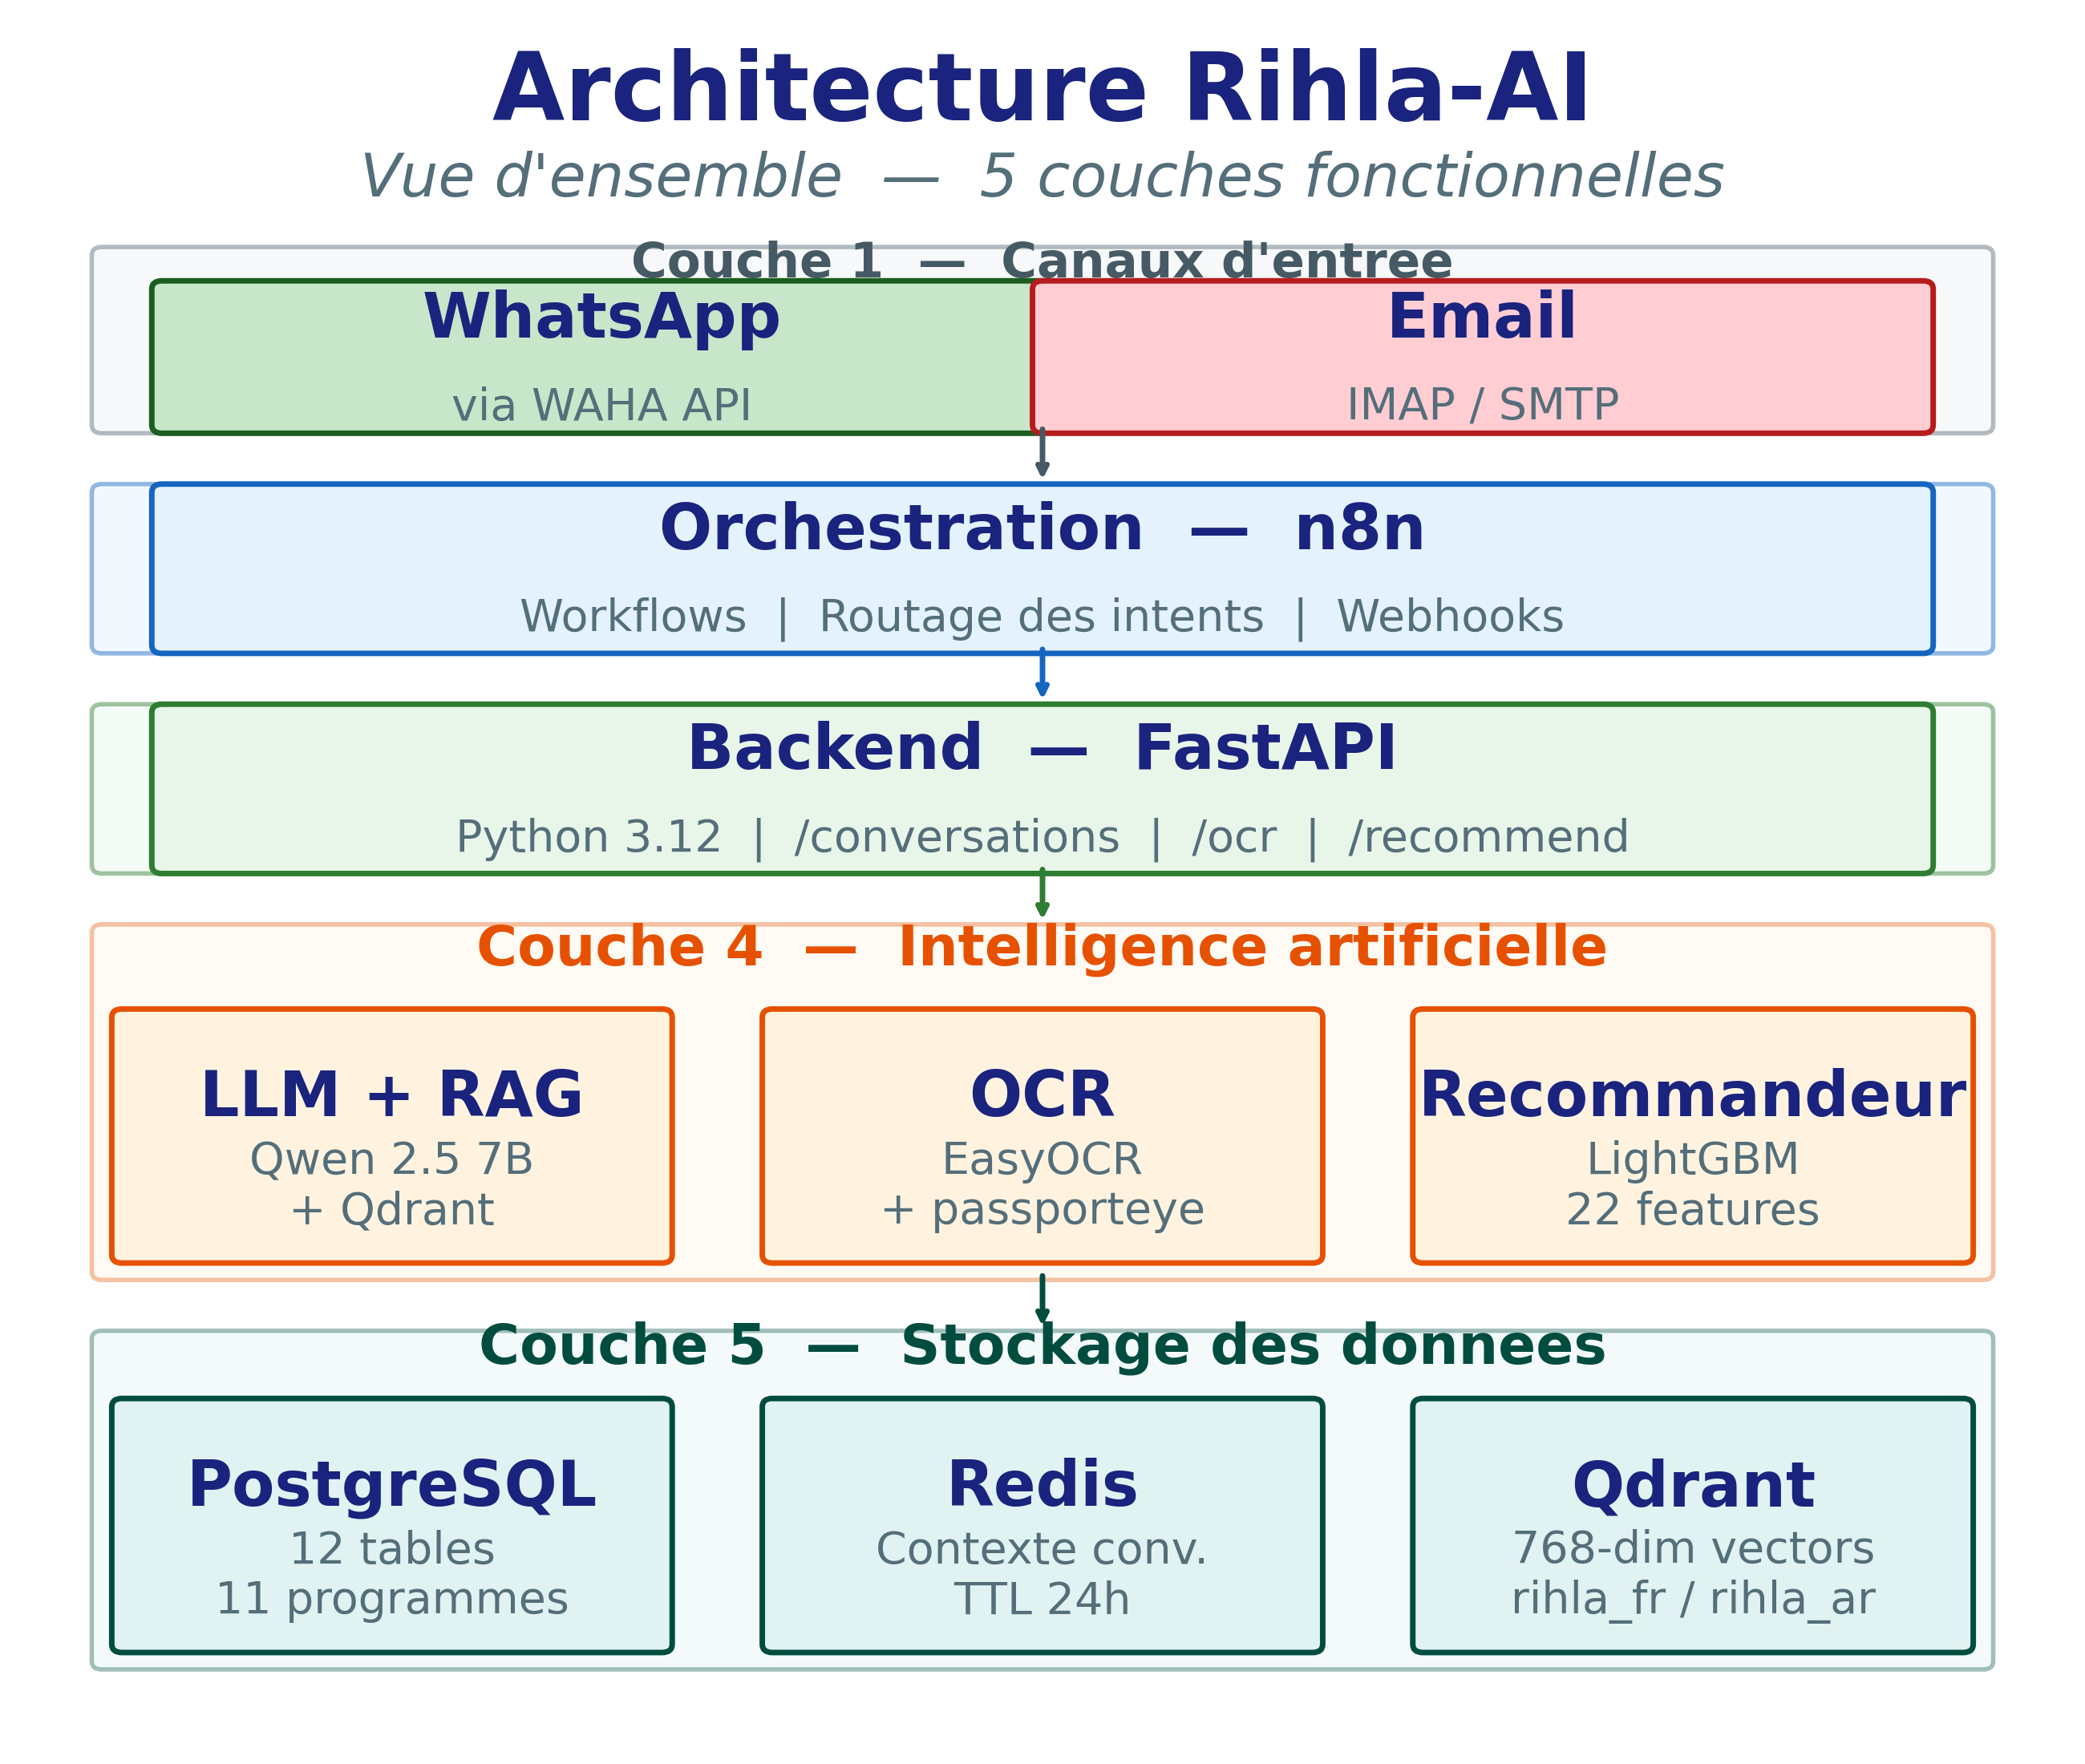
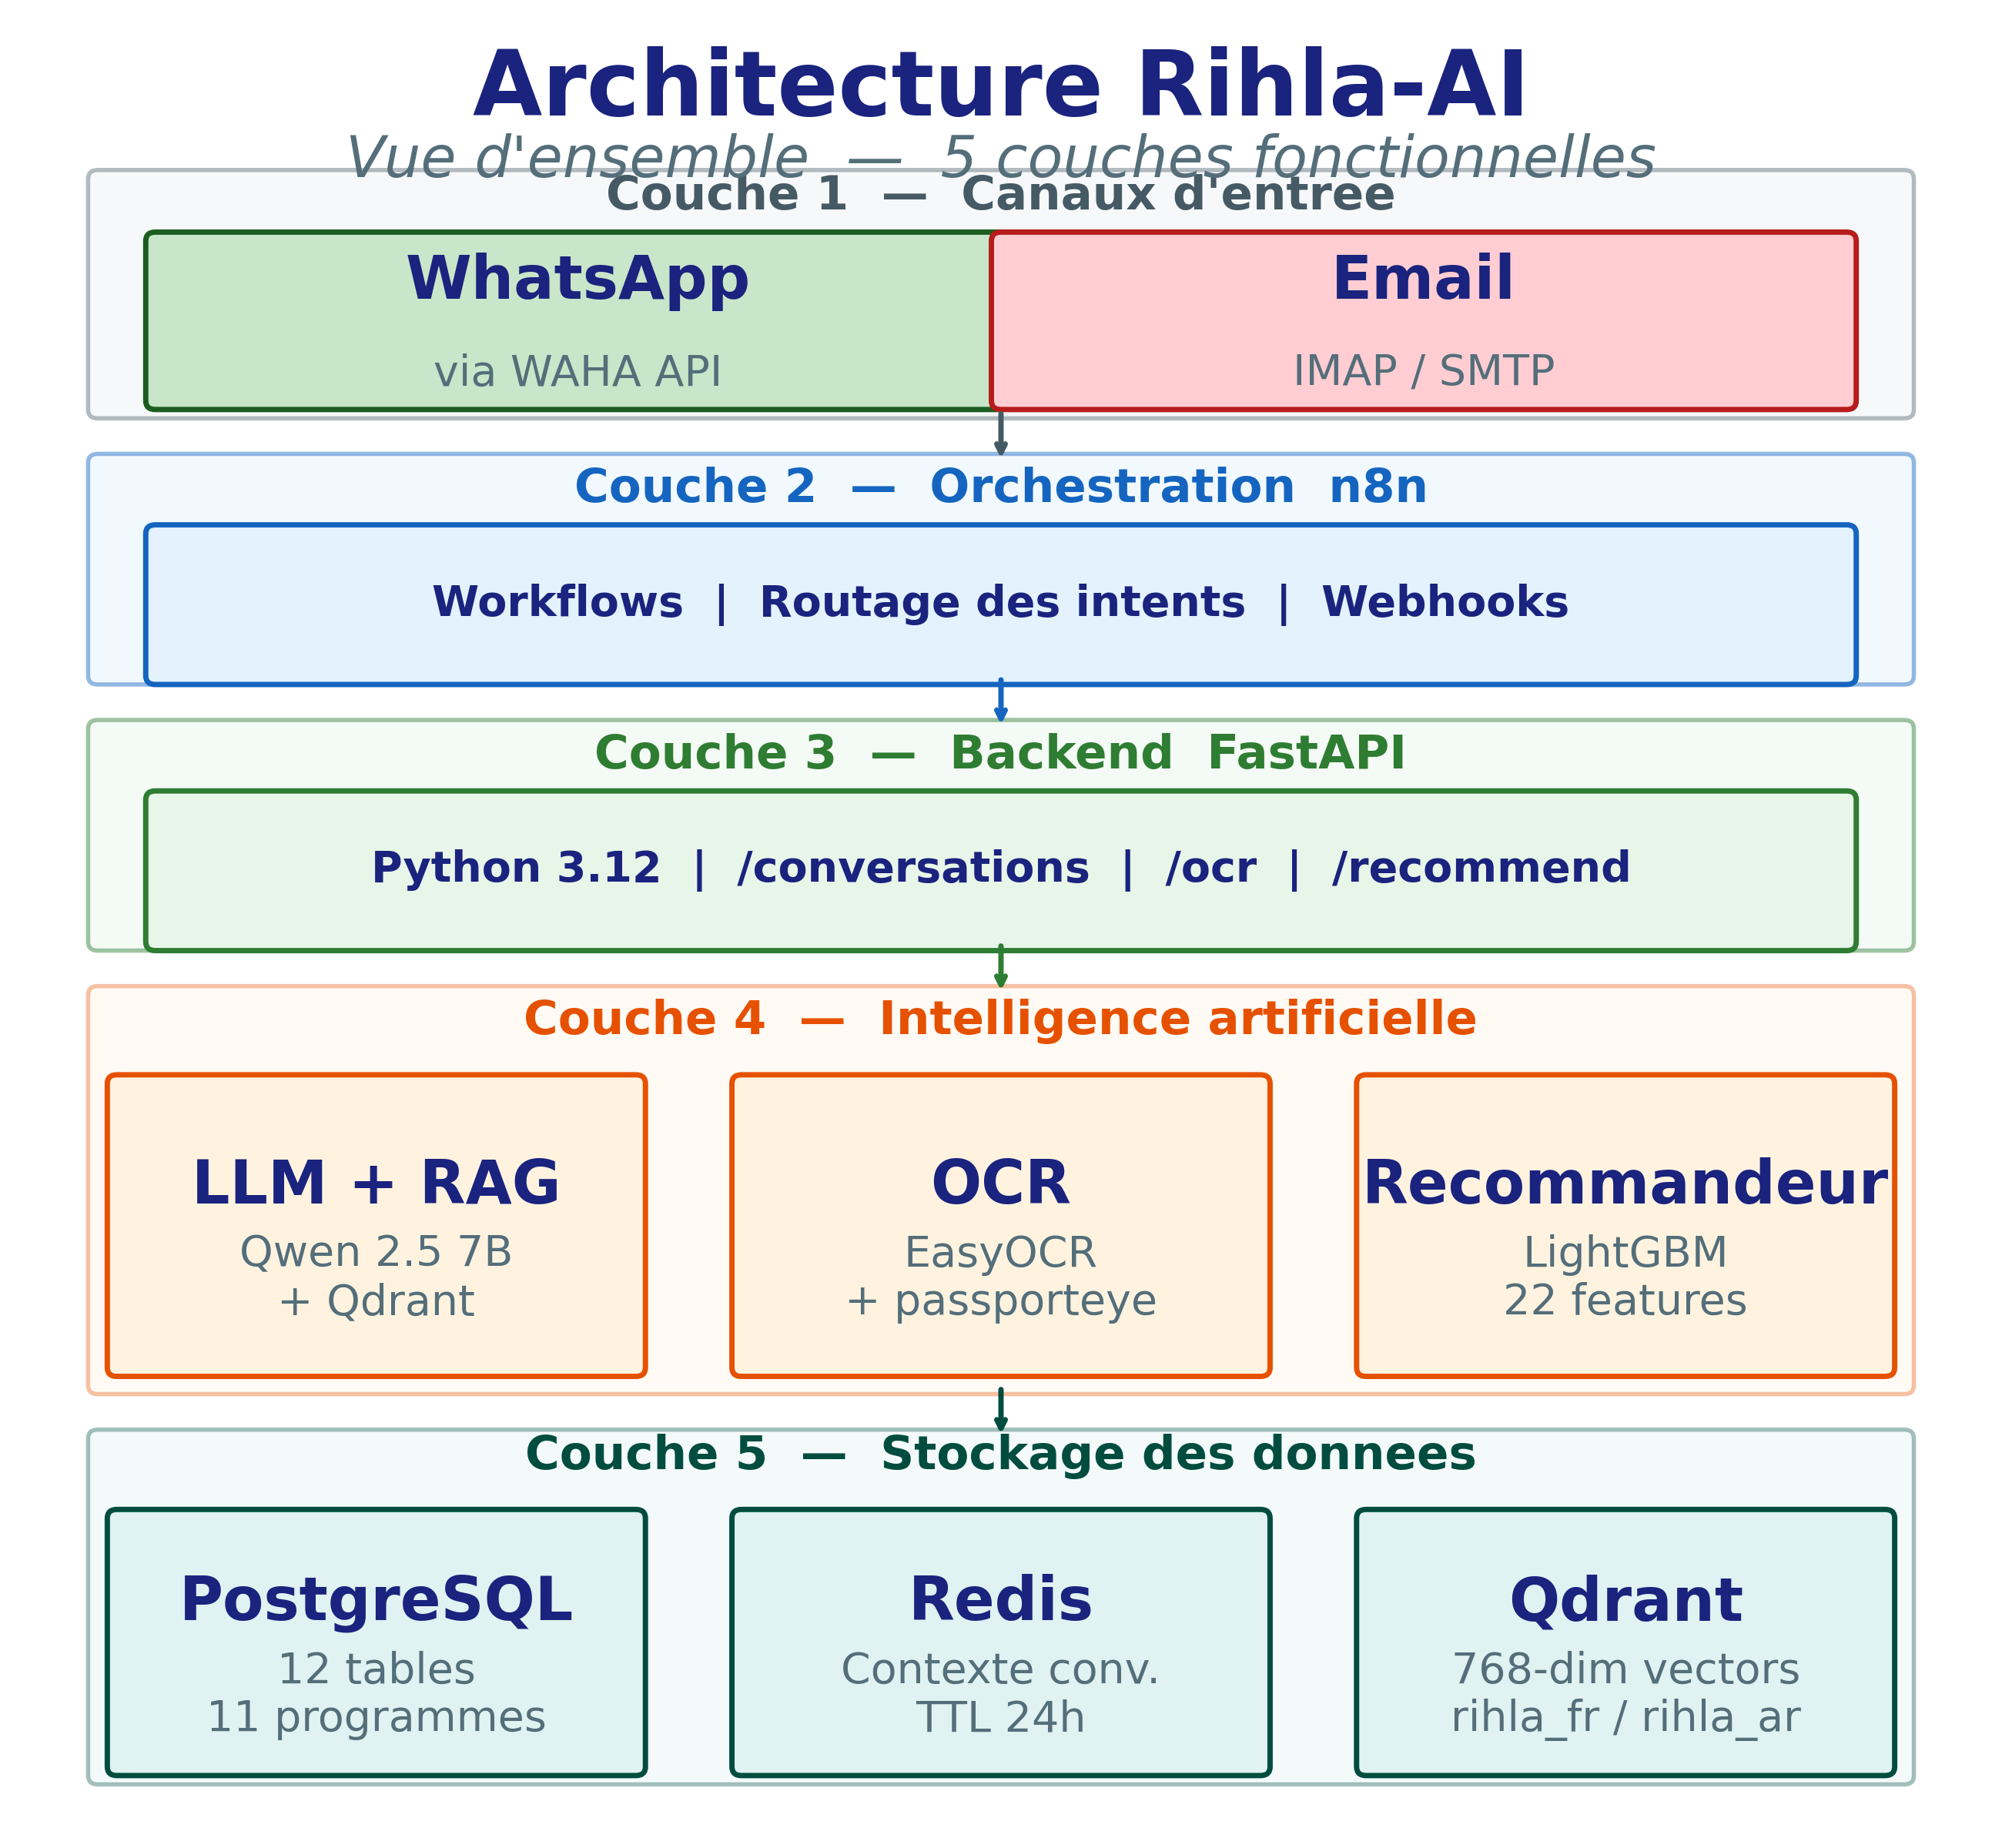
Fix architecture schema: add Couche 2/3 labels, enlarge boxes
All 5 layers now have consistent 'Couche X' band labels.
Couche 2 (n8n) and Couche 3 (FastAPI) previously had no visible
layer number. Boxes slightly enlarged, figsize bumped to 13x12.

Changed region(s): [[0.0312, 0.4636, 0.9658, 0.9891], [0.0312, 0.0309, 0.9658, 0.4327]]

diff --git a/gen_schemas.py b/gen_schemas.py
@@ -1,0 +1,310 @@
+"""
+Generate 3 schemas for Rihla-AI report.
+
+Key design choices:
+  - bbox_inches=None  → exact figsize × DPI pixels (no auto-cropping)
+  - subplots_adjust   → axes fills 96% of figure
+  - Font sizes tuned to fit inside their respective box widths
+"""
+
+import matplotlib
+matplotlib.use('Agg')
+import matplotlib.pyplot as plt
+import matplotlib.patches as mpatches
+
+WHITE = 'white'
+DARK  = '#1A237E'
+GRAY  = '#546E7A'
+
+
+def _setup(figw, figh):
+    fig, ax = plt.subplots(figsize=(figw, figh))
+    plt.subplots_adjust(left=0.02, right=0.98, top=0.98, bottom=0.02)
+    ax.set_xlim(0, 100)
+    ax.set_ylim(0, 100)
+    ax.axis('off')
+    fig.patch.set_facecolor(WHITE)
+    return fig, ax
+
+
+def _box(ax, cx, cy, w, h, title, sub=None,
+         ec='#1565C0', fc='#E3F2FD', tfs=28, sfs=20):
+    ax.add_patch(mpatches.FancyBboxPatch(
+        (cx - w/2, cy - h/2), w, h,
+        boxstyle="round,pad=0.5",
+        facecolor=fc, edgecolor=ec, linewidth=2.5, zorder=3))
+    if sub:
+        ax.text(cx, cy + 2.2, title, fontsize=tfs, fontweight='bold',
+                ha='center', va='center', color=DARK, zorder=4,
+                multialignment='center')
+        ax.text(cx, cy - 3.0, sub, fontsize=sfs,
+                ha='center', va='center', color=GRAY, zorder=4,
+                multialignment='center')
+    else:
+        ax.text(cx, cy, title, fontsize=tfs, fontweight='bold',
+                ha='center', va='center', color=DARK, zorder=4,
+                multialignment='center')
+
+
+def _bg(ax, x, y, w, h, ec, fc, alpha=0.45):
+    ax.add_patch(mpatches.FancyBboxPatch(
+        (x, y), w, h, boxstyle="round,pad=0.5",
+        facecolor=fc, edgecolor=ec, linewidth=2.0, alpha=alpha, zorder=1))
+
+
+def _harrow(ax, x1, x2, y, color, lw=2.5):
+    ax.annotate('', xy=(x2, y), xytext=(x1, y),
+                arrowprops=dict(arrowstyle='->', color=color, lw=lw), zorder=5)
+
+
+def _varrow(ax, x, y1, y2, color, lw=2.5):
+    ax.annotate('', xy=(x, y2), xytext=(x, y1),
+                arrowprops=dict(arrowstyle='->', color=color, lw=lw), zorder=5)
+
+
+# ─────────────────────────────────────────────────────────────────────────────
+# 1. RAG PIPELINE  —  figsize=(12,9)  →  2400×1800 px  (bbox_inches=None)
+# At 1920-px screen width: scale=0.8  →  30pt≈67px, 21pt≈47px  (readable)
+# ─────────────────────────────────────────────────────────────────────────────
+
+def gen_rag():
+    BLUE    = '#1565C0';  BLUE_BG  = '#E3F2FD'
+    GREEN   = '#2E7D32';  GREEN_BG = '#E8F5E9'
+
+    fig, ax = _setup(12, 9)
+
+    # Titles  (y=95 gives enough room above Phase-1 band at y=87)
+    ax.text(50, 95.5, "Pipeline RAG",
+            fontsize=42, fontweight='bold', ha='center', va='center', color=DARK)
+    ax.text(50, 89.5, "Retrieval-Augmented Generation",
+            fontsize=27, style='italic', ha='center', va='center', color=GRAY)
+
+    # ── Phase 1  y: 46 → 87 ──────────────────────────────────────────────────
+    _bg(ax, 1.5, 46, 97, 41, BLUE, '#EBF5FB')
+    ax.text(50, 84, "Phase 1  —  Indexation des Donnees",
+            fontsize=27, fontweight='bold', ha='center', va='center', color=BLUE, zorder=2)
+
+    # 4 boxes: w=22, gap=3, margins=1.5  →  centres 12.5, 37.5, 62.5, 87.5
+    p1 = [(12.5, "Documents",  "Agence"),
+          (37.5, "Chunking",   "Decoupage\ntexte"),
+          (62.5, "Embedding",  "nomic-\nembed-text"),
+          (87.5, "Qdrant",     "rihla_fr\nrihla_ar")]
+    for cx, t, s in p1:
+        _box(ax, cx, 63, 22, 16, t, s, BLUE, BLUE_BG, tfs=28, sfs=20)
+
+    for xs in [23.5, 48.5, 73.5]:       # right-edge → left-edge of next
+        _harrow(ax, xs, xs + 3, 63, BLUE)
+
+    # ── Phase 2  y: 4 → 43 ───────────────────────────────────────────────────
+    _bg(ax, 1.5, 4, 97, 39, GREEN, '#E8F5E9')
+    ax.text(50, 40, "Phase 2  —  Generation de Reponse",
+            fontsize=27, fontweight='bold', ha='center', va='center', color=GREEN, zorder=2)
+
+    # 5 boxes: w=17, gap=2.5, margins=2.5  →  centres 11, 30.5, 50, 69.5, 89
+    p2 = [(11,   "Question",  "Client"),
+          (30.5, "Embedding", "768 dim."),
+          (50,   "Recherche", "Top-K\ncosinus"),
+          (69.5, "LLM",       "Qwen 2.5\n7B"),
+          (89,   "Reponse",   "Factuelle")]
+    for cx, t, s in p2:
+        _box(ax, cx, 23, 17, 16, t, s, GREEN, GREEN_BG, tfs=25, sfs=19)
+
+    for xs in [19.5, 39, 58.5, 78]:
+        _harrow(ax, xs, xs + 2.5, 23, GREEN)
+
+    # Qdrant → Recherche cross-phase arc
+    ax.annotate('', xy=(50, 31), xytext=(87.5, 55),
+                arrowprops=dict(arrowstyle='->', color='#90A4AE', lw=2.0,
+                                connectionstyle='arc3,rad=-0.22',
+                                linestyle='dashed'), zorder=5)
+    ax.text(80, 48, "Top-K\nvecteurs", fontsize=18,
+            ha='center', va='center', color='#78909C', style='italic')
+
+    plt.savefig('schema_rag_pipeline.png', dpi=200,
+                facecolor=WHITE, bbox_inches=None)
+    plt.close()
+    print("Done: schema_rag_pipeline.png")
+
+
+# ─────────────────────────────────────────────────────────────────────────────
+# 2. OCR PIPELINE  —  figsize=(12,10)  →  2400×2000 px
+# ─────────────────────────────────────────────────────────────────────────────
+
+def gen_ocr():
+    ORANGE  = '#E65100';  ORANGE_BG = '#FFF3E0'
+    PURPLE  = '#4A148C';  PURPLE_BG = '#F3E5F5'
+    TEAL    = '#00695C';  TEAL_BG   = '#E0F2F1'
+
+    fig, ax = _setup(12, 10)
+
+    ax.text(50, 96, "Pipeline OCR",
+            fontsize=42, fontweight='bold', ha='center', va='center', color=DARK)
+    ax.text(50, 91, "Extraction automatique  —  Passeport",
+            fontsize=27, style='italic', ha='center', va='center', color=GRAY)
+
+    # Input
+    _box(ax, 50, 83, 46, 11, "Image Passeport",
+         "Document d'identite numerise",
+         ec='#455A64', fc='#ECEFF1', tfs=30, sfs=22)
+
+    # T-junction splitter
+    _varrow(ax, 50, 77.5, 73, '#455A64')
+    ax.plot([24, 76], [73, 73], color='#455A64', lw=2.5, zorder=4)
+    _varrow(ax, 24, 73, 68.5, ORANGE)
+    _varrow(ax, 76, 73, 68.5, PURPLE)
+
+    # LEFT path background
+    _bg(ax, 4, 31, 40, 42, ORANGE, ORANGE_BG, alpha=0.30)
+    ax.text(24, 73.5, "Moteur principal", fontsize=22, fontweight='bold',
+            ha='center', va='bottom', color=ORANGE, zorder=4)
+
+    _box(ax, 24, 60, 36, 14, "EasyOCR",
+         "PyTorch  |  CPU Docker",
+         ec=ORANGE, fc=ORANGE_BG, tfs=30, sfs=22)
+
+    _varrow(ax, 24, 53, 48, ORANGE)
+
+    _box(ax, 24, 41, 36, 12, "pytesseract",
+         "Fallback leger",
+         ec='#BF360C', fc='#FBE9E7', tfs=28, sfs=22)
+
+    # RIGHT path background
+    _bg(ax, 56, 31, 40, 42, PURPLE, PURPLE_BG, alpha=0.30)
+    ax.text(76, 73.5, "MRZ ISO 9303", fontsize=22, fontweight='bold',
+            ha='center', va='bottom', color=PURPLE, zorder=4)
+
+    _box(ax, 76, 60, 36, 14, "passporteye",
+         "Detection MRZ",
+         ec=PURPLE, fc=PURPLE_BG, tfs=30, sfs=22)
+
+    _varrow(ax, 76, 53, 48, PURPLE)
+
+    _box(ax, 76, 41, 36, 12, "Lignes MRZ",
+         "Ligne 1  +  Ligne 2",
+         ec='#6A1B9A', fc='#EDE7F6', tfs=28, sfs=22)
+
+    # Merge both paths
+    ax.annotate('', xy=(50, 29), xytext=(24, 35),
+                arrowprops=dict(arrowstyle='->', color='#455A64', lw=2.5,
+                                connectionstyle='angle,angleA=-90,angleB=180'), zorder=5)
+    ax.annotate('', xy=(50, 29), xytext=(76, 35),
+                arrowprops=dict(arrowstyle='->', color='#455A64', lw=2.5,
+                                connectionstyle='angle,angleA=-90,angleB=0'), zorder=5)
+    _varrow(ax, 50, 29, 24, TEAL)
+
+    # Output box  (wide, w=88 fits on 100-unit axis with margin 6 each side)
+    _box(ax, 50, 15, 88, 16, "Donnees Structurees",
+         "Nom   |   Prenom   |   N Passeport   |   Date Naissance   |   Expiration   |   Nationalite",
+         ec=TEAL, fc=TEAL_BG, tfs=30, sfs=18)
+
+    plt.savefig('schema_ocr_pipeline.png', dpi=200,
+                facecolor=WHITE, bbox_inches=None)
+    plt.close()
+    print("Done: schema_ocr_pipeline.png")
+
+
+# ─────────────────────────────────────────────────────────────────────────────
+# 3. ARCHITECTURE  —  figsize=(13,12)  →  2600×2400 px
+#
+# y layout (bottom → top, total = 100 units):
+#   2  | Couche 5  bg  h=19  [2,21]
+#   3  | arrow gap        [21,24]
+#   22 | Couche 4  bg  h=22  [24,46]
+#   3  | arrow gap        [46,49]
+#   12 | Couche 3  bg  h=12  [49,61]
+#   3  | arrow gap        [61,64]
+#   12 | Couche 2  bg  h=12  [64,76]
+#   3  | arrow gap        [76,79]
+#   13 | Couche 1  bg  h=13  [79,92]
+#   8  | title/subtitle       [92,100]
+# ─────────────────────────────────────────────────────────────────────────────
+
+def gen_arch():
+    SLATE   = '#455A64';  SLATE_BG  = '#ECEFF1'
+    BLUE    = '#1565C0';  BLUE_BG   = '#E3F2FD'
+    GREEN   = '#2E7D32';  GREEN_BG  = '#E8F5E9'
+    ORANGE  = '#E65100';  ORANGE_BG = '#FFF3E0'
+    TEAL    = '#004D40';  TEAL_BG   = '#E0F2F1'
+
+    fig, ax = _setup(13, 12)
+
+    ax.text(50, 97, "Architecture Rihla-AI",
+            fontsize=42, fontweight='bold', ha='center', va='center', color=DARK)
+    ax.text(50, 93, "Vue d'ensemble  —  5 couches fonctionnelles",
+            fontsize=27, style='italic', ha='center', va='center', color=GRAY)
+
+    LBL = 22   # band label fontsize (used for all 5 couches)
+    BFS = 28   # sub-box title
+    BSB = 20   # sub-box subtitle
+    WFS = 20   # wide-box content
+
+    # ── Couche 1: Canaux d'entree  (bg y=[79, 92]) ───────────────────────────
+    _bg(ax, 3, 79, 94, 13, SLATE, SLATE_BG, alpha=0.4)
+    ax.text(50, 91, "Couche 1  —  Canaux d'entree",
+            fontsize=LBL, fontweight='bold', ha='center', va='center',
+            color=SLATE, zorder=2)
+
+    _box(ax, 28, 84, 44, 9, "WhatsApp", "via WAHA API",
+         ec='#1B5E20', fc='#C8E6C9', tfs=BFS, sfs=BSB)
+    _box(ax, 72, 84, 44, 9, "Email", "IMAP / SMTP",
+         ec='#B71C1C', fc='#FFCDD2', tfs=BFS, sfs=BSB)
+
+    _varrow(ax, 50, 79, 76, SLATE)
+
+    # ── Couche 2: Orchestration n8n  (bg y=[64, 76]) ─────────────────────────
+    _bg(ax, 3, 64, 94, 12, BLUE, BLUE_BG, alpha=0.45)
+    ax.text(50, 74.5, "Couche 2  —  Orchestration  n8n",
+            fontsize=LBL, fontweight='bold', ha='center', va='center',
+            color=BLUE, zorder=2)
+    _box(ax, 50, 68, 88, 8,
+         "Workflows  |  Routage des intents  |  Webhooks",
+         sub=None, ec=BLUE, fc=BLUE_BG, tfs=WFS, sfs=0)
+
+    _varrow(ax, 50, 64, 61, BLUE)
+
+    # ── Couche 3: Backend FastAPI  (bg y=[49, 61]) ────────────────────────────
+    _bg(ax, 3, 49, 94, 12, GREEN, GREEN_BG, alpha=0.45)
+    ax.text(50, 59.5, "Couche 3  —  Backend  FastAPI",
+            fontsize=LBL, fontweight='bold', ha='center', va='center',
+            color=GREEN, zorder=2)
+    _box(ax, 50, 53, 88, 8,
+         "Python 3.12  |  /conversations  |  /ocr  |  /recommend",
+         sub=None, ec=GREEN, fc=GREEN_BG, tfs=WFS, sfs=0)
+
+    _varrow(ax, 50, 49, 46, GREEN)
+
+    # ── Couche 4: Intelligence  (bg y=[24, 46]) ───────────────────────────────
+    _bg(ax, 3, 24, 94, 22, ORANGE, ORANGE_BG, alpha=0.35)
+    ax.text(50, 44.5, "Couche 4  —  Intelligence artificielle",
+            fontsize=LBL, fontweight='bold', ha='center', va='center',
+            color=ORANGE, zorder=2)
+
+    for cx, t, s in [(17.5, "LLM + RAG",    "Qwen 2.5 7B\n+ Qdrant"),
+                     (50,   "OCR",           "EasyOCR\n+ passporteye"),
+                     (82.5, "Recommandeur",  "LightGBM\n22 features")]:
+        _box(ax, cx, 33, 27, 16, t, s, ORANGE, ORANGE_BG, tfs=BFS, sfs=BSB)
+
+    _varrow(ax, 50, 24, 21, TEAL)
+
+    # ── Couche 5: Stockage  (bg y=[2, 21]) ───────────────────────────────────
+    _bg(ax, 3, 2, 94, 19, TEAL, TEAL_BG, alpha=0.35)
+    ax.text(50, 20, "Couche 5  —  Stockage des donnees",
+            fontsize=LBL, fontweight='bold', ha='center', va='center',
+            color=TEAL, zorder=2)
+
+    for cx, t, s in [(17.5, "PostgreSQL",  "12 tables\n11 programmes"),
+                     (50,   "Redis",        "Contexte conv.\nTTL 24h"),
+                     (82.5, "Qdrant",       "768-dim vectors\nrihla_fr / rihla_ar")]:
+        _box(ax, cx, 9.5, 27, 14, t, s, TEAL, TEAL_BG, tfs=BFS, sfs=BSB)
+
+    plt.savefig('schema_architecture_haut_niveau.png', dpi=200,
+                facecolor=WHITE, bbox_inches=None)
+    plt.close()
+    print("Done: schema_architecture_haut_niveau.png")
+
+
+if __name__ == '__main__':
+    gen_rag()
+    gen_ocr()
+    gen_arch()
+    print("\nAll 3 schemas generated.")